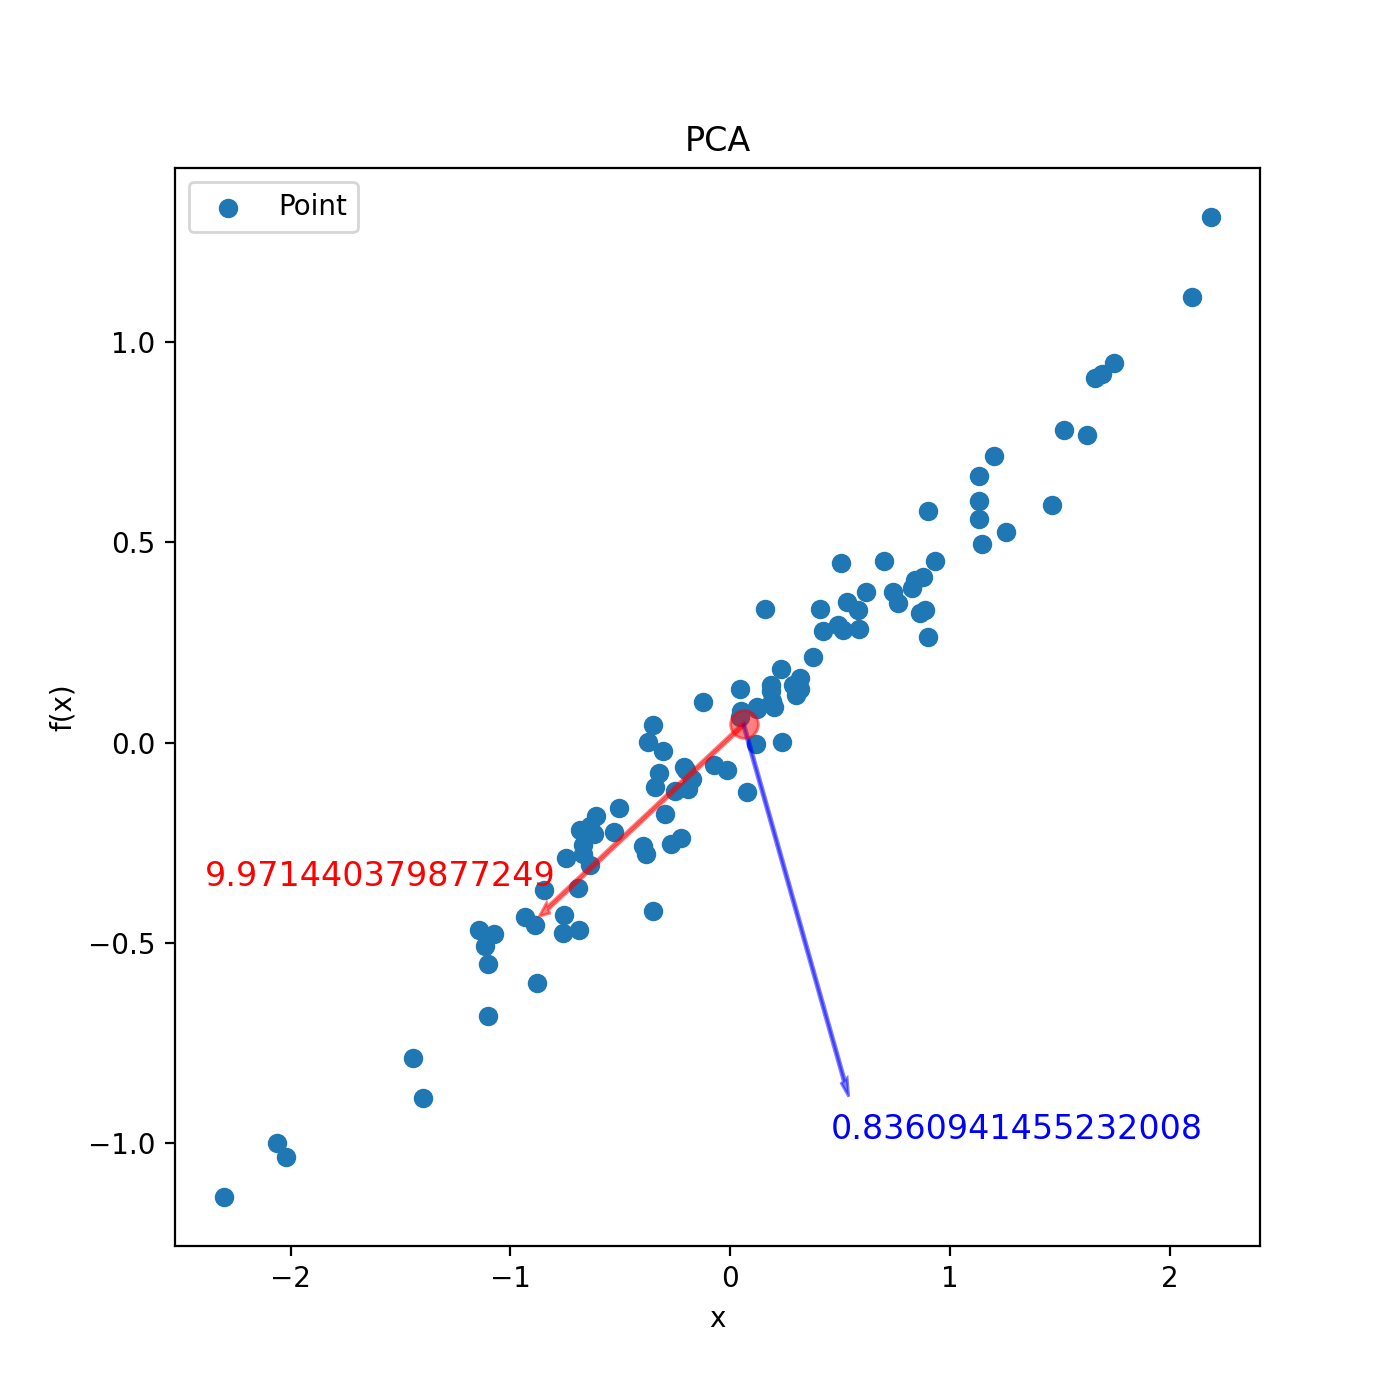
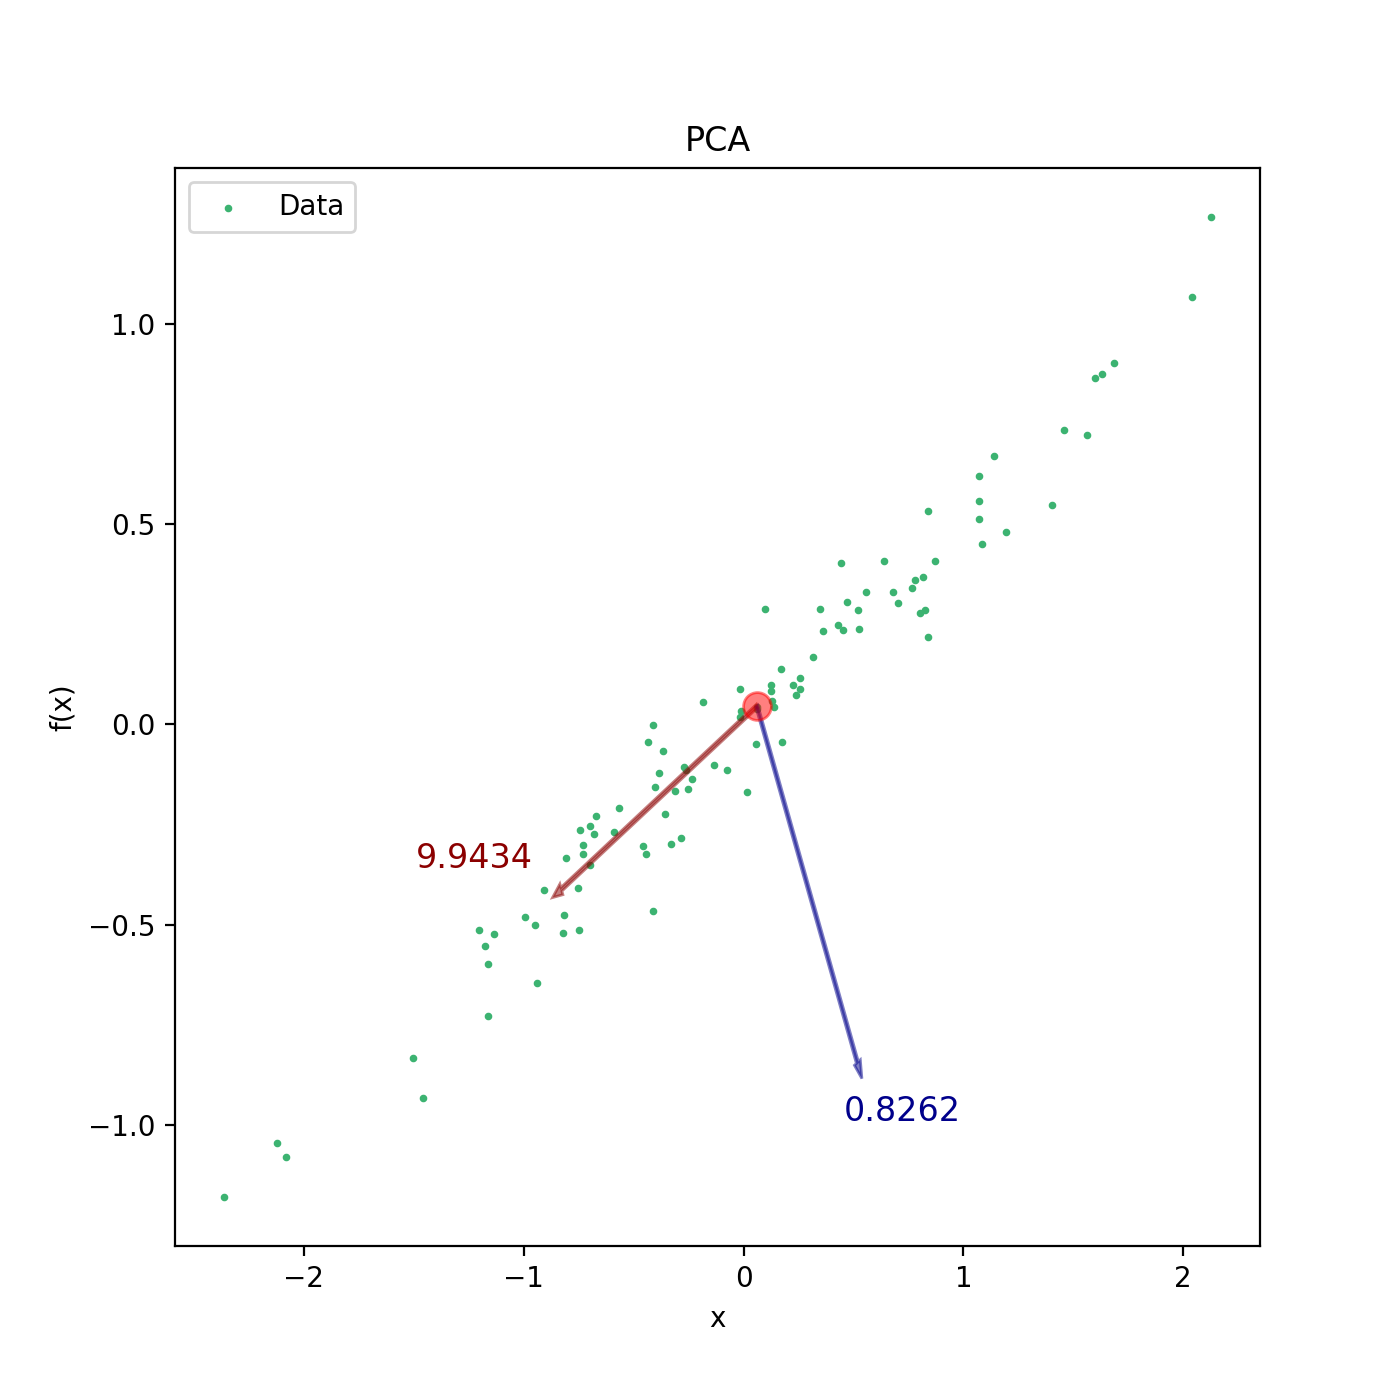
karman corman

diff --git a/task2/task2.py b/task2/task2.py
@@ -6,9 +6,25 @@ import scipy.spatial
 from scipy.linalg import eigh
 from sklearn.datasets import make_swiss_roll
 from mpl_toolkits.mplot3d import Axes3D
-import sys
-sys.path.append('../')
 from Util import read_file, MAIN_PATH
+
+
+import numexpr as ne
+import numpy as np
+import copy
+
+import matplotlib.pyplot as plt
+import mpl_toolkits.mplot3d.axes3d as p3
+
+from sklearn.datasets import make_swiss_roll, make_s_curve
+from sklearn.decomposition import PCA
+import sklearn.manifold as manifold
+
+# NOTE: make sure "path/to/datafold" is in sys.path or PYTHONPATH if datafold is not installed
+import datafold.dynfold as dfold
+import datafold.pcfold as pfold
+from datafold.utils.plot import plot_pairwise_eigenvector
+from datafold.dynfold import LocalRegressionSelection
 
 def generate_points(N):
     """
@@ -101,12 +117,14 @@ def diffusion_map_algorithm(X,L):
     # 10. Compute the eigenvectors φl of the matrix T = Q−1K by φl = Q−1/2vl.
     S = np.matmul(Q_inverse, v_l.T)
 
-    return S #* lambda_l
+    return S, lambda_l, v_l, a_l, Q, Q_inverse #* lambda_l
 
 
 def plot_5_eigenfunctions(tk,S):
     fig, (ax1, ax2, ax3, ax4, ax5) = plt.subplots(5, 1, figsize=(12, 12))
     # Skipping φ0 since it is constant
+    ax1.plot(tk, S[:, 0], color='teal', linewidth=0.5, label='$\phi_0$')
+    ax1.legend(loc="upper right")
     ax1.plot(tk, S[:, 1], color='teal', linewidth=0.5, label='$\phi_1$')
     ax1.legend(loc="upper right")
     ax2.plot(tk, S[:, 2], color='teal', linewidth=0.5, label='$\phi_2$')
@@ -160,28 +178,31 @@ def plot_swiss_roll(X,time):
     ax0.set_title("Swiss Roll")
     plt.show()
 
-def main():
-
-    ## Part 1
+def part_1():
     N = 1000
     L = 5
     X, tk = generate_points(N)
     plot_generated_points(X)
     tk = np.array(tk)
-    S = diffusion_map_algorithm(X, L)
+    S, _, _, _, _, _ = diffusion_map_algorithm(X, L)
     plot_5_eigenfunctions(tk, S)
 
-
-    ## Part 2
-    N = 1000
+def part_2():
+    N = 5000
     L = 10
     X, t = make_swiss_roll(N, noise=0.0, random_state=None)
-    plot_swiss_roll(X,t)
-    S = diffusion_map_algorithm(X,L)
+    plot_swiss_roll(X, t)
+    S, lambda_l, v_l, a_l, Q, Q_inverse = diffusion_map_algorithm(X, L)
     plot_eigenfunctions(S)
 
-    # PCA
+    #U = v_l
+    #V = np.matmul(Q_inverse, U)
+    R = np.matmul(Q, S)
+    plot_swiss_roll(R, t)
 
+
+
+    # PCA
     X = X - X.mean(axis=0, keepdims=True)
     U, sigma, V = np.linalg.svd(X, 0)
     S = np.diag(sigma)
@@ -205,7 +226,6 @@ def main():
         energy_2 += sigma[i] / trace
     reconstructed_2 = np.dot(U, np.dot(S_2, V))
 
-
     fig = plt.figure()
     ax1 = fig.gca(projection='3d')
     ax1.scatter(reconstructed_3[:, 0], reconstructed_3[:, 1], reconstructed_3[:, 2], c=t, cmap="twilight", s=1)
@@ -227,12 +247,54 @@ def main():
     plt.tight_layout()
     plt.show()
 
-    ## Part 3
-
+def part_3():
     data = read_file('data_DMAP_PCA_vadere.txt')
     L = 10
-    s = diffusion_map_algorithm(data, L)
+    s, _, _, _, _, _ = diffusion_map_algorithm(data, L)
     plot_eigenfunctions(s)
+
+def bonus():
+    nr_samples = 15000
+
+    # reduce number of points for plotting
+    nr_samples_plot = 1000
+    idx_plot = np.random.permutation(nr_samples)[0:nr_samples_plot]
+
+    # generate point cloud
+    X, X_color = make_s_curve(nr_samples, random_state=3, noise=0)
+
+    # plot
+    fig = plt.figure(figsize=(10, 10))
+    ax = fig.add_subplot(111, projection="3d")
+    ax.scatter(X[idx_plot, 0], X[idx_plot, 1], X[idx_plot, 2], c=X_color[idx_plot], cmap=plt.cm.Spectral)
+    ax.set_xlabel("x");
+    ax.set_ylabel("y");
+    ax.set_zlabel("z")
+    ax.set_title("point cloud on S-shaped manifold");
+    ax.view_init(10, 70)
+
+    X_pcm = pfold.PCManifold(X)
+    X_pcm.optimize_parameters(result_scaling=0.5)
+    print(f'epsilon={X_pcm.kernel.epsilon}, cut-off={X_pcm.cut_off}')
+
+    dmap = dfold.DiffusionMaps(kernel=pfold.GaussianKernel(epsilon=X_pcm.kernel.epsilon), n_eigenpairs=9,
+                               dist_kwargs=dict(cut_off=X_pcm.cut_off))
+    dmap = dmap.fit(X_pcm)
+    evecs, evals = dmap.eigenvectors_, dmap.eigenvalues_
+
+    plot_pairwise_eigenvector(eigenvectors=dmap.eigenvectors_[idx_plot, :], n=1,
+                              fig_params=dict(figsize=[15, 15]),
+                              scatter_params=dict(cmap=plt.cm.Spectral, c=X_color[idx_plot]))
+
+def main():
+    ## Part 1
+    #part_1()
+    ## Part 2
+    #part_2()
+    ## Part 3
+    #part_3()
+
+    bonus()
 
 
 if __name__ == '__main__':

diff --git a/task1/task1.py b/task1/task1.py
@@ -1,8 +1,7 @@
 import matplotlib.pyplot as plt
 import numpy as np
 from PIL import Image
-import sys
-sys.path.append('../')
+
 from Util import read_file, MAIN_PATH
 
 
@@ -13,19 +12,38 @@ def part_1():
     # Find center of data set
     mean_d1, mean_d2 = X.mean(0)
 
+    X_centered = X - X.mean(axis=0, keepdims=True)
+
+    mean_centered_d1, mean_centered_d2 = X_centered.mean(0)
+
     # Make PCA analysis via SVD
-    U, sigma, V = np.linalg.svd(X, 0)
-    S = np.diag(sigma)
-    trace = S.trace()
+    U, sigma, V = np.linalg.svd(X_centered, 0)
+    Sigma = np.diag(sigma)
+    trace = Sigma.trace()
+
+    S_one_dimension = np.zeros(Sigma.shape)
+    S_one_dimension[0][0] = Sigma[0][0]
+    X_one_dimension = U.dot(S_one_dimension).dot(V)
+    MSE_one = (X_centered - X_one_dimension) ** 2
+    MSE_one = np.sum(MSE_one)
+    print("MSE One Dimension: {:.4f}".format(MSE_one**2))
 
     # Approximates one-dimensional linear subspace
-    X_head = X.dot(V[:, 0])  # V[:, 0] first column of V
-    # TODO: plot the linear subspace
+    X_1D = U.dot(Sigma).dot(V[0])
+    print("X 1D: " + str(X_1D))
+    fig = plt.figure(figsize=(6, 3))
+    ax = fig.add_subplot(1, 1, 1)
+    ax.set_title('1-Dimensional Projection')
+    ax.scatter(X_1D, np.zeros(X_1D.shape), label='Projected Data', c="red", s=3)
+    plt.xlabel("z")
+    plt.legend(loc='upper left')
+    plt.tight_layout()
+    plt.show()
 
-    print("X_head: " + str(X_head))
+    print("X_head: " + str(X_one_dimension))
     print("U: " + str(U))
     print("V: " + str(V))
-    print("Sigma: " + str(S))
+    print("Sigma: " + str(Sigma))
     print("Trace: " + str(trace))
     print("Energy of " + str(sigma[0]) + ": " + str(sigma[0] / trace))
     print("Energy of " + str(sigma[1]) + ": " + str(sigma[1] / trace))
@@ -34,13 +52,17 @@ def part_1():
     fig = plt.figure(figsize=(7, 7))
     ax = fig.add_subplot(1, 1, 1)
     ax.set_title('PCA')
-    ax.scatter(X[:, 0], X[:, 1], label='Points', c="mediumseagreen", s=3)
+    ax.scatter(X[:, 0], X[:, 1], label='Data', c="mediumseagreen", s=3)
+    ax.scatter(X_centered[:, 0], X_centered[:, 1], label='Centered Data', c="lightskyblue", s=3)
+    ax.scatter(X_one_dimension[:, 0], X_one_dimension[:, 1], label='Projected Data', c="red", s=1)
     plt.xlabel("x")
     plt.ylabel("f(x)")
+    plt.grid(True)
     plt.legend(loc='upper left')
 
     # Mark the center of data set
-    ax.plot(mean_d1, mean_d2, 'o', markersize=10, color='red', alpha=0.5)
+    ax.plot(mean_d1, mean_d2, 'o', markersize=5, color='olivedrab', label='Center of data')
+    ax.plot(mean_centered_d1, mean_centered_d2, 'o', markersize=5, color='darkblue', label='Center of centralized data')
 
     # Draw the direction of two principal components
     V_T = V.T
@@ -49,7 +71,7 @@ def part_1():
 
     # Show eigenvalues of Sigma
     plt.text(V_T[0, 0] - 0.6, V_T[1, 0] + 0.1, "{:.4f}".format(sigma[0]), fontsize=12, color='darkred')
-    plt.text(V_T[0, 1], V_T[1, 1] - 0.1,  "{:.4f}".format(sigma[1]), fontsize=12, color='darkblue')
+    plt.text(V_T[0, 1], V_T[1, 1] - 0.1, "{:.4f}".format(sigma[1]), fontsize=12, color='darkblue')
     plt.show()
 
 
@@ -123,7 +145,7 @@ def part_3():
     X = read_file('data_DMAP_PCA_vadere.txt')
 
     # Visualize the path of the first two pedestrians in the two-dimensional space.
-    fig = plt.figure(figsize=(10,7))
+    fig = plt.figure(figsize=(10, 7))
     ax = fig.add_subplot()
     ax.set_title('Pedestrian Paths')
     ax.plot(X[:, 0], X[:, 1], color='dodgerblue', linewidth=0.5, label='First Pedestrian')
@@ -174,7 +196,7 @@ def part_3():
         energy_5 += sigma[i] / trace
     reconstructed_5 = np.dot(U, np.dot(S_5, V))
 
-    fig, ((ax1, ax2), (ax3, ax4)) = plt.subplots(2, 2, figsize=(10,10))
+    fig, ((ax1, ax2), (ax3, ax4)) = plt.subplots(2, 2, figsize=(10, 10))
     ax1.plot(reconstructed_2[:, 0], reconstructed_2[:, 1], color='dodgerblue', linewidth=0.5, label='First Pedestrian')
     ax1.plot(reconstructed_2[:, 2], reconstructed_2[:, 3], color='firebrick', linewidth=0.5, label='Second Pedestrian')
     ax1.set_title("Reconstructed with 2 principal components \n Energy: {:.2f}%".format(energy_2 * 100))
@@ -200,8 +222,8 @@ def part_3():
 
 def main():
     part_1()
-    part_2()
-    part_3()
+    # part_2()
+    # part_3()
 
 
 if __name__ == '__main__':

diff --git a/Util.py b/Util.py
@@ -13,7 +13,7 @@ def read_file(file_path):
     :return: [N, D] numpy array of the data in the file
     """
 
-    file = open(MAIN_PATH + "../data/" + file_path, "r")
+    file = open(MAIN_PATH + "data/" + file_path, "r")
     var = []
     for line in file:
         # TODO: float may cause casting issue. Check it!
